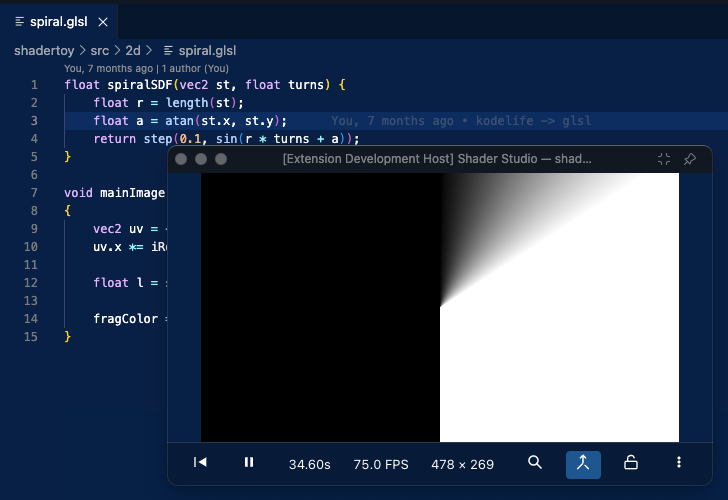
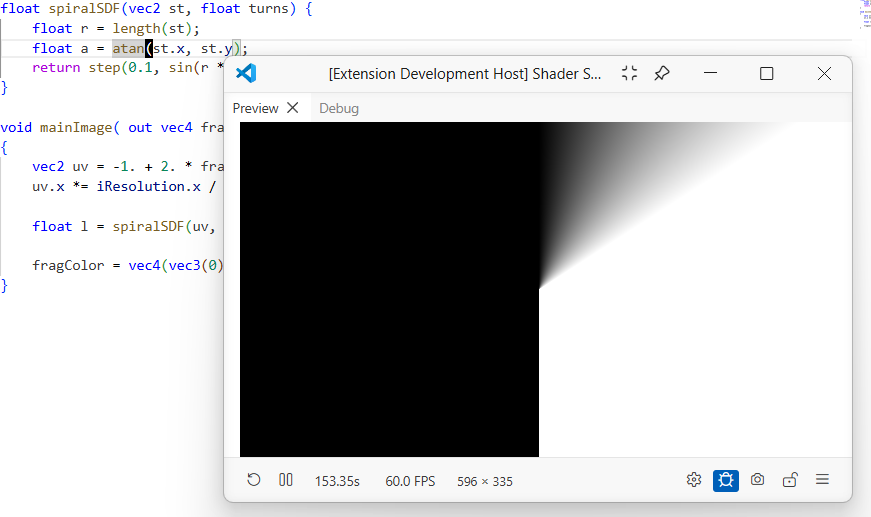
docs(readme): update visual-debugging screenshot and reword intro
Replace the line-debug image with a current preview screenshot and drop the "GPU canvas" phrasing in favor of "real-time preview".

diff --git a/extension/README.md b/extension/README.md
@@ -1,165 +1,134 @@
 # Shader Studio
 
-A GLSL fragment shader viewer for VS Code with hot reloading, designed specifically for Shadertoy-style shaders. See https://www.shadertoy.com for more information on the format and to see some cool shaders.
+A VS Code extension for live previewing, editing, and debugging Shadertoy-style GLSL shaders. It gives you a real-time preview inside your editor, a visual debugger that lets you see what every line computes, and a full pipeline for multi-pass effects. See [shadertoy.com](https://www.shadertoy.com) for more on the format and some inspiration.
 
-Docs: https://teaqu.github.io/shader-studio/
+📖 **Full documentation: [teaqu.github.io/shader-studio](https://teaqu.github.io/shader-studio/)**
 
 ![screenshot](https://raw.githubusercontent.com/teaqu/shader-studio/refs/heads/main/assets/screenshot.png)
 ![shader explorer screenshot](https://raw.githubusercontent.com/teaqu/shader-studio/refs/heads/main/assets/shader-explorer.png)
 
 ## Quick Start
 
-1. Open any shadertoy style `.glsl` file in VS Code
-2. Click the SHA icon on the VS Code status bar to see the viewing options
+1. Open any Shadertoy-style `.glsl` file in VS Code (or run **Shader Studio: New Shader** from the Command Palette for a template).
+2. Click the <img src="https://teaqu.github.io/shader-studio/assets/shader-studio-icon.svg" width="14" height="14" style="vertical-align:middle;"> **Shader Studio** icon on the VS Code status bar to choose how to view your shader — as a panel, a separate window, or in the browser.
 
-![shader studio menu button](https://github.com/teaqu/shader-studio/blob/main/assets/sha-button.png?raw=true)
+You can launch as many panels, windows, or browser tabs as you want simultaneously. The in-app menu gives quick access to layout, the shader explorer, snippet library, and compile mode.
 
-You can launch as many panels, windows, or browser tabs as you want simultaneously.
+The preview updates in real time as you edit — by default it recompiles on every keystroke. The toolbar at the bottom gives quick access to every feature.
 
-![shader studio menu](https://github.com/teaqu/shader-studio/blob/main/assets/menu-options.png?raw=true)
+See the [Quick Start guide](https://teaqu.github.io/shader-studio/quick-start/) for a full walkthrough.
+
+## Features
+
+| Feature | Description |
+|---------|-------------|
+| [Live Preview](https://teaqu.github.io/shader-studio/quick-start/) | Edit GLSL and see the result instantly, in a panel, window, or browser |
+| [Buffers & Channels](https://teaqu.github.io/shader-studio/features/config-buffers/) | Multi-pass pipelines with textures, video, audio, cubemaps, buffers, and keyboard input |
+| [Visual Debugging](https://teaqu.github.io/shader-studio/debugging/) | Inspect what every line computes — pixel inspector, inline rendering, variable inspector |
+| [Time & Playback](https://teaqu.github.io/shader-studio/features/time-controls/) | Scrub, loop, pause, and change playback speed |
+| [Recording](https://teaqu.github.io/shader-studio/features/recording/) | Capture screenshots or record video and GIF directly from the preview |
+| [Resolution](https://teaqu.github.io/shader-studio/features/resolution/) | Scale the canvas, set custom dimensions, or change aspect ratio |
+| [Editor Overlay](https://teaqu.github.io/shader-studio/features/editor-overlay/) | Edit shader code inline over a full-screen preview |
+| [Shader Explorer](https://teaqu.github.io/shader-studio/features/shader-explorer/) | Browse and switch between your shaders |
+| [Snippet Library](https://teaqu.github.io/shader-studio/features/snippet-library/) | Insert common GLSL patterns — noise, SDFs, color utilities, and more |
+| [Compile Modes](https://teaqu.github.io/shader-studio/features/compile-modes/) | Compile on every keystroke, on save, or manually |
+| [Locking](https://teaqu.github.io/shader-studio/features/locking/) | Pin the preview to a shader while you edit buffer files |
+| [Performance](https://teaqu.github.io/shader-studio/features/performance/) | Cap the frame rate or open a detailed frame-time panel |
 
 ## Viewing Modes
 
 ### Panel
 
-This runs the shader within a panel in VS Code, allowing you to view your shader alongside your code.
+Runs the shader within a panel in VS Code, so you can view your shader alongside your code. Panels can be dragged, split, and resized; the layout saves automatically. See [Panel Layout](https://teaqu.github.io/shader-studio/features/panel-layout/).
 
 ### Web Browser
 
-For the best performance, it's recommended to use your web browser. Web browsers appear to have better GPU optimizations and can achieve higher priority rendering than observed in VS Code panels.
+For the best performance, run the preview in your web browser. Browsers tend to have better GPU optimizations and higher-priority rendering than VS Code panels. See [Open in Browser](https://teaqu.github.io/shader-studio/features/web-server/).
 
-## Runtime Config
+## Visual Config Editor
 
-If you click on the resolution on the menubar there are some options to change how the shader is displayed.
+The **Config** panel is a visual editor for setting up multi-pass pipelines and binding assets to your shader inputs — no manual uniform declarations or hand-written config required. Open it with the gear icon in the toolbar.
 
-<img src="https://github.com/teaqu/shader-studio/blob/main/assets/runtime-config.png?raw=true" alt="shader runtime config" width="250"/>
+![Visual config editor](https://raw.githubusercontent.com/teaqu/shader-studio/refs/heads/main/docs/assets/images/config.png)
 
-## Time Controls
+A tab bar lets you add and switch between passes: `Image`, `BufferA`–`BufferD`, a shared `Common` pass, and a `Script` pass for driving custom uniforms. For each pass you get a channel grid (`iChannel0`–`iChannel15`) where you click a slot, pick an input type, and bind it visually:
 
-Click on the time display in the menu bar to access playback controls:
+- **Textures** — images, noise maps, lookup tables
+- **Video** — sampled like a texture, synced to play/pause
+- **Audio** — FFT spectrum and waveform data (matches Shadertoy's audio texture layout)
+- **Cubemaps** — cross-layout images bound as `samplerCube`
+- **Buffers** — the output of another pass, including self-reference for feedback loops
+- **Keyboard** — held, pressed, and toggle state per key
 
-<img src="https://github.com/teaqu/shader-studio/blob/main/assets/time-controls.png?raw=true" alt="time controls" width="250"/>
+The editor writes a `.sha.json` file next to your shader and keeps it in sync; you can also toggle to a raw JSON view if you prefer to edit it by hand.
 
-- **Time Scrubbing**: Use the slider to seek to any point in time within the current range
-- **Time Range Presets**: Quickly set the time range to 2π, 10s, 30s, 1m, or 2m (default: 1m)
-- **Loop Mode**: Toggle looping to repeat the shader from 0 to the selected time range
-- **Playback Speed**: Adjust shader speed from 0.25× to 4× (presets: 0.25×, 0.5×, 1×, 2×, 4×)
+See [Configure Buffers and Inputs](https://teaqu.github.io/shader-studio/features/config-buffers/) and [Channels](https://teaqu.github.io/shader-studio/features/channels/) for the full guides, and [my shaders repository](https://github.com/teaqu/shaders/tree/main/shadertoy) for examples.
 
-The time controls allow you to:
-- Scrub through your shader's animation to find the perfect moment
-- Loop a specific time range to focus on a particular animation segment
-- Slow down or speed up playback to observe shader behavior in detail
+## Visual Debugging
 
-## Configuration
-
-If you want to use buffers or include textures, you can do so by creating a corresponding `.sha.json` config file for your `.glsl` shader. See [my shaders repository](https://github.com/teaqu/shaders/tree/main/shadertoy) for examples using this format.
-
-The config file should be in the same directory as your shader with the naming convention: `shadername.sha.json`. You can also generate a config file using the command palette.
-
-![generate config](https://github.com/teaqu/shader-studio/blob/main/assets/generate-glsl-config.png?raw=true)
-
-The extension provides a visual editor for `.sha.json` files. Click the preview button (same as a markdown file) to open the visual editor:
-
-![Config UI View](https://github.com/teaqu/shader-studio/blob/main/assets/config-ui.png?raw=true)
-
-The passes are `Image`, `BufferA`, `BufferB`, `BufferC`, and `BufferD`.
-Each pass has inputs that are tied to uniforms `iChannel0`, `iChannel1`, `iChannel2`, and `iChannel3`. These channels can read from other buffers, keyboard input, or textures.
-
-### Example Configuration Format
-
-Here's an example of the configuration format.
-
-
-```json
-{
-  "version": "1.0",
-  "passes": {
-    "Image": {
-      "inputs": {
-        "iChannel0": {
-          "source": "BufferA",
-          "type": "buffer"
-        }
-      }
-    },
-    "BufferA": {
-      "path": "buffer_name.glsl",
-      "inputs": {
-        "iChannel0": {
-          "source": "BufferA",
-          "type": "buffer"
-        },
-        "iChannel1": {
-          "type": "keyboard"
-        }
-      }
-    }
-  }
-}
-```
-
-## Debug Mode (Experimental)
-
-Shader Studio includes an interactive debug mode that lets you visualize intermediate shader values by hovering over any line in your GLSL code.
+Enable debug mode with the bug icon in the toolbar to open a panel of tools for inspecting your shader while it runs:
 
 ![Debug Mode](https://raw.githubusercontent.com/teaqu/shader-studio/refs/heads/main/assets/line-debug.png)
 
-### How to Use
+- **Pixel Inspector** — hover the canvas to read exact RGB, float, hex, fragCoord, and UV values
+- **Inline Rendering** — visualize the value of the variable on your current line across the whole screen
+- **Variable Inspector** — capture and inspect every variable in scope, sampled across the canvas or at a single pixel
+- **Normalize & Step** — remap value ranges and apply binary thresholds to make small variations visible
+- **Parameters & Loops** — control function arguments and cap loop iterations
 
-1. Click the arrow icon in the menu bar to enable debug mode
-2. Hover your cursor over any line in your shader code
-3. The canvas will update to show the value at that line
+Debug mode works inside `mainImage`, helper functions, and buffer passes. See [Debug Mode Overview](https://teaqu.github.io/shader-studio/debugging/).
 
-### Visualization
+### JavaScript Transpilation (Experimental)
 
-Debug mode automatically detects the type of value on each line and visualizes it:
+Shader Studio can transpile your GLSL into JavaScript (using [glsl-transpiler](https://github.com/stackgl/glsl-transpiler)) so you can step through it with the standard VS Code debugger, set breakpoints, and inspect variables. Run **Shader Studio: Transpile GLSL to JavaScript (for debugging)** from the Command Palette. See [JavaScript Transpilation](https://teaqu.github.io/shader-studio/help/transpilation/).
 
-- **`float`** → Grayscale (0.0 = black, 1.0 = white)
-- **`vec2`** → Red-Green channels (x → red, y → green)
-- **`vec3`** → Full RGB color
-- **`vec4`** → Full RGBA color
-- **`mat2`** → First two rows as vec4
+## Time Controls
 
-Debug mode works with many lines but not everything. Expect not all lines will work.
+Click the time display in the menu bar to access playback controls:
 
-## JavaScript Transpilation (Experimental)
+<img src="https://github.com/teaqu/shader-studio/blob/main/assets/time-controls.png?raw=true" alt="time controls" width="250"/>
 
-Shader Studio can also transpile your GLSL shader code into JavaScript (using https://github.com/stackgl/glsl-transpiler). This allows you to use the standard VS Code debugger to step through your shader code, inspect variables, and understand its execution flow.
+- **Time Scrubbing** — seek to any point within the current range
+- **Time Range Presets** — 2π, 10s, 30s, 1m, or 2m
+- **Loop Mode** — repeat the shader over the selected range
+- **Playback Speed** — 0.25× to 4×
 
-To use this feature, open a `.glsl` file and run the command "Shader Studio: Transpile GLSL to JavaScript (for debugging)" from the command palette. This will generate a `[shader-name].transpiled.js` file. You can then set breakpoints in this JavaScript file and start a debugging session (e.g., using Node.js).
-
-This can be used in conjunction with the pixel inspector. Get the values from that and then update the js uniforms.
-
-<img width="477" height="291" alt="image" src="https://github.com/user-attachments/assets/493ebc29-0ae5-49ca-95a9-cf8aac4ddace" />
+See [Time and Playback Controls](https://teaqu.github.io/shader-studio/features/time-controls/).
 
 ## Shadertoy Compatibility
 
-The aim is to support all Shadertoy features. Currently, the extension supports the following uniforms:
+Shader Studio aims to support the full Shadertoy feature set. Your shader must define a `mainImage` function.
 
-### Currently Supported
+### Supported Uniforms
 
-- `iTime` - shader playback time (in seconds)
-- `iTimeDelta` - render time (time since last frame, in seconds)
-- `iFrameRate` - shader frame rate (frames per second)
-- `iFrame` - shader playback frame number
-- `iMouse` - mouse pixel coordinates
-- `iResolution` - viewport resolution (in pixels)
-- `iChannel0-3` - input channels (textures, buffers, keyboard)
-- `iChannelResolution[4]` - channel resolution for each input (vec3: width, height, depth)
-- `iDate` - current date (year, month, day, time in seconds)
-- Video Inputs
-- Common Buffer
+| Uniform | Description |
+|---------|-------------|
+| `iTime` | Elapsed time in seconds |
+| `iTimeDelta` | Time since last frame in seconds |
+| `iFrameRate` | Frames per second |
+| `iFrame` | Frame counter |
+| `iMouse` | Mouse position (xy = current, zw = click) |
+| `iResolution` | Canvas dimensions |
+| `iChannel0–15` | Input channels (textures, video, audio, cubemaps, buffers, keyboard) |
+| `iChannelResolution[N]` | Resolution of each input channel |
+| `iChannelTime[N]` | Playback time for each audio/video channel |
+| `iDate` | Year, month, day, seconds since midnight |
+| `iSampleRate` | Audio sample rate |
+
+Shader Studio also adds non-Shadertoy uniforms `iCameraPos` and `iCameraDir` for a built-in WASD/mouse-controlled camera.
 
 ### Not Yet Supported
 
-- `iChannelTime[4]` - channel playback time (for video inputs)
-- `samplerCube iChannelX` - cubemap texture support
-- `iSampleRate` - sound sample rate (typically 44100)
-- Audio/sound inputs (including video audio)
-- Webcam inputs
-- Volume/microphone inputs
-- VR/AR inputs
+- Webcam input
+- Microphone / real-time audio input
+- VR/AR rendering modes
+
+See the full [Shadertoy Compatibility reference](https://teaqu.github.io/shader-studio/help/shadertoy-compatibility/).
+
+## Documentation
+
+The complete user guide lives at **[teaqu.github.io/shader-studio](https://teaqu.github.io/shader-studio/)**, including troubleshooting, keyboard shortcuts, and settings.
 
 ## Contributing
 
-Found a bug or want to contribute? Visit the [GitHub repository](https://github.com/teaqu/shader-view) to report issues or submit pull requests.
+Found a bug or want to contribute? Visit the [GitHub repository](https://github.com/teaqu/shader-studio) to report issues or submit pull requests.